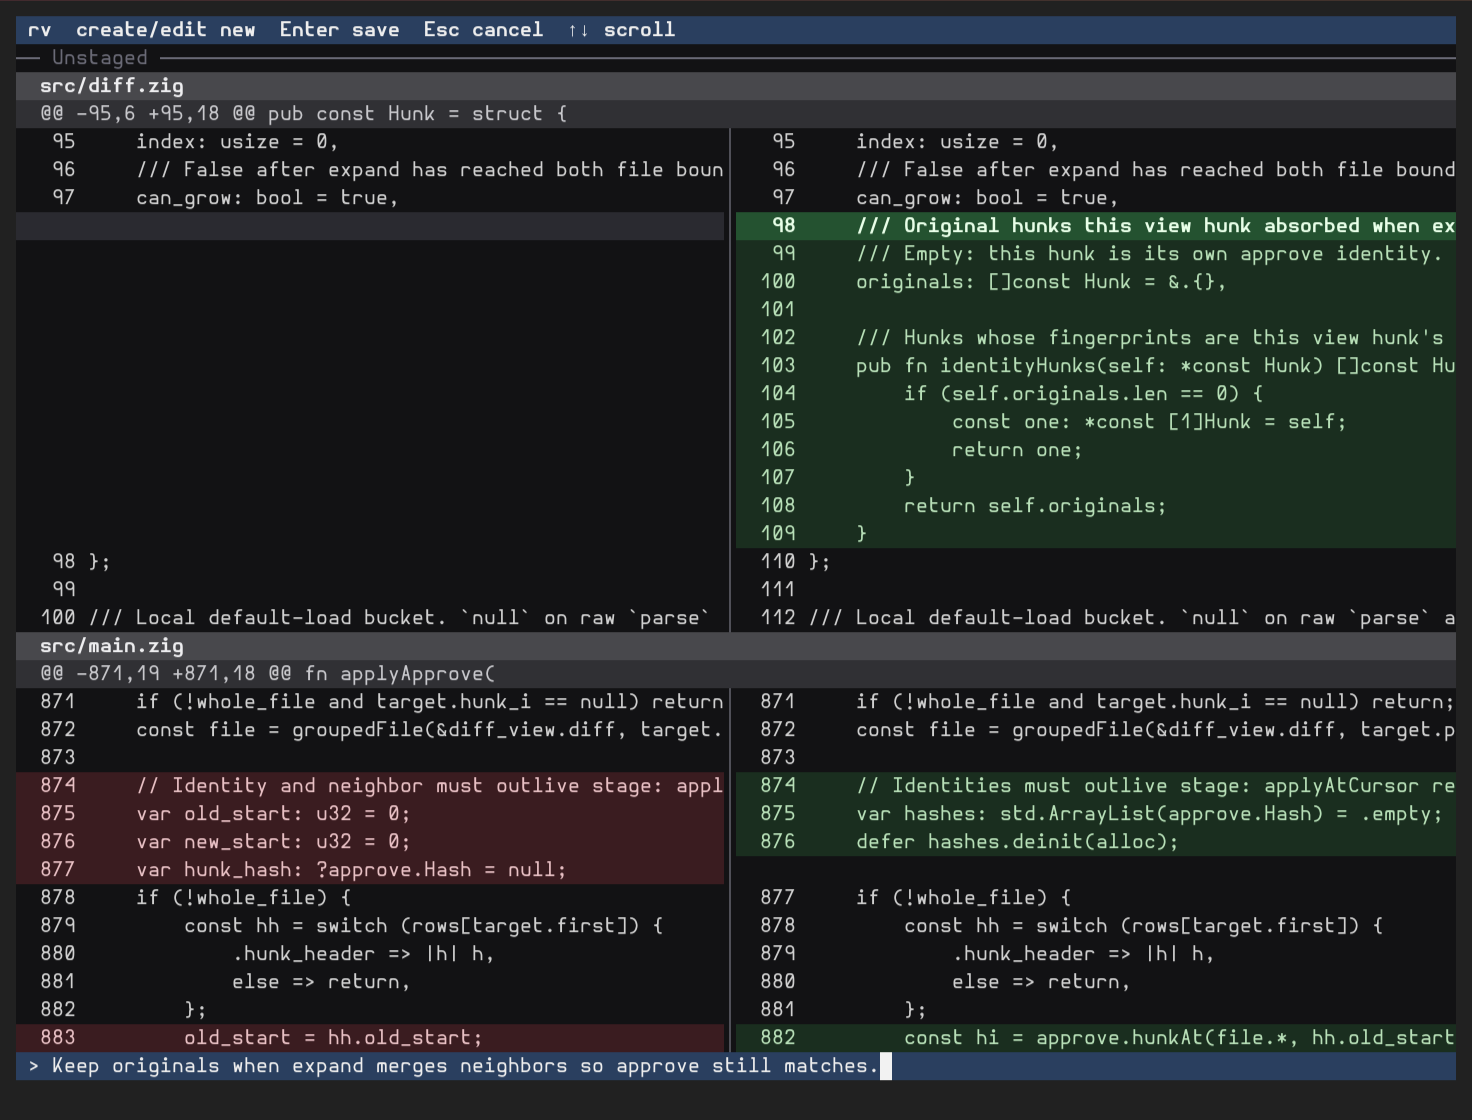
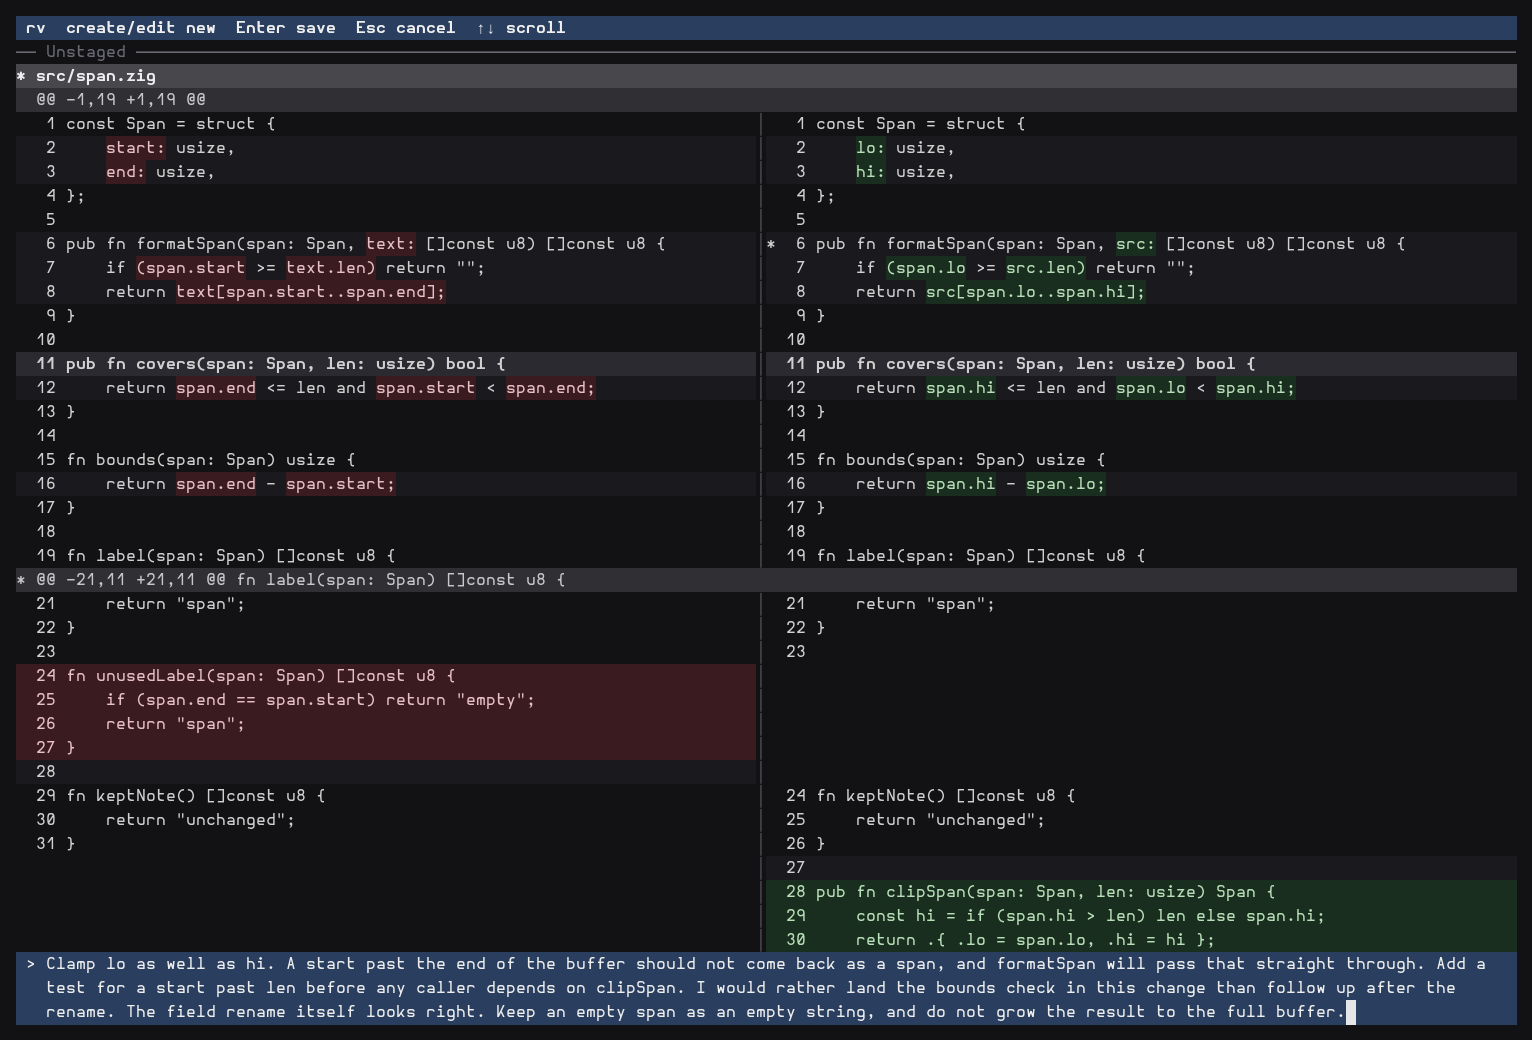
Update the README screenshots for the diff, comment box, and lists.

diff --git a/README.md b/README.md
@@ -33,11 +33,37 @@ zig build -Doptimize=ReleaseSafe --prefix ~/.local
 npx skills add Zooce/rv -g
 ```
 
-![Side-by-side review with the current line highlighted](docs/screenshots/review.png)
+## Screenshots
 
-![Inline comment box under the cursor](docs/screenshots/comment.png)
+### Side-by-side diff
 
-![Help overlay (`?`)](docs/screenshots/help.png)
+Changed words are colored on the line. Unchanged words on that line stay grey. A whole line that was added or deleted stays green or red.
+
+![Side-by-side diff. Changed words are colored; whole added and deleted lines stay solid.](docs/screenshots/review.png)
+
+### Writing a comment
+
+`i` opens the comment box under the diff. The box grows as the comment wraps.
+
+![Comment box open with a comment that wraps across several lines.](docs/screenshots/comment.png)
+
+### Unified diff
+
+`t` shows the same review as a unified diff.
+
+![Unified diff of the same review.](docs/screenshots/unified.png)
+
+### Comment list
+
+`Space` then `c` lists open comments.
+
+![Comment list over the diff.](docs/screenshots/comments.png)
+
+### Approved list
+
+`Space` then `a` lists approved hunks. Approving stages a hunk and hides it from the diff.
+
+![Approved list. Those hunks are staged and hidden from the diff.](docs/screenshots/approved.png)
 
 ## Use
 
